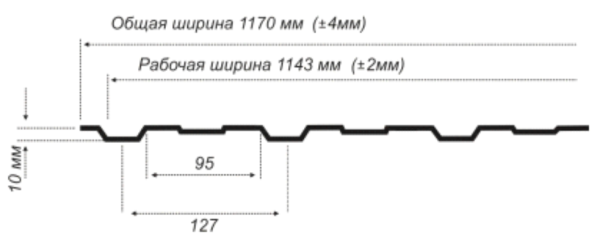
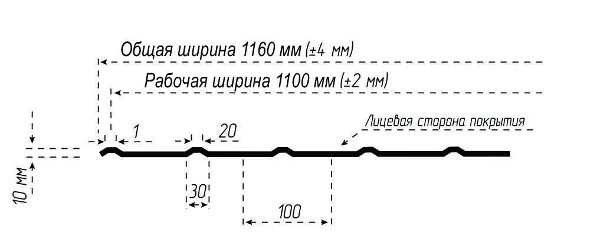
krovl updates

Changed region(s): [[0.0, 0.0576, 0.99, 0.9506], [0.03, 0.3745, 0.06, 0.4897]]

diff --git a/htmlstaticcontent/026_products_krovl_profnastil_/index.html b/htmlstaticcontent/026_products_krovl_profnastil_/index.html
@@ -131,8 +131,8 @@
             <tr>
                 <td style="padding:3px;">
                     <noindex>Профнастил</noindex> С – 10 (стеновой)<br />
-                    Ширина общая: 1170 мм (&plusmn;4мм)<br />
-                    Ширина рабочая: 1143 мм (&plusmn;2мм)
+                    Ширина общая: 1160 мм (&plusmn;4мм)<br />
+                    Ширина рабочая: 1100 мм (&plusmn;2мм)
                 </td>
                 <td style="padding:3px;"><a href="1.png" class="big_img" title="Профнастил С – 10 (стеновой). Производство ООО «Тримет»"><img  src="с 10.gif" /></a></td>
             </tr>
